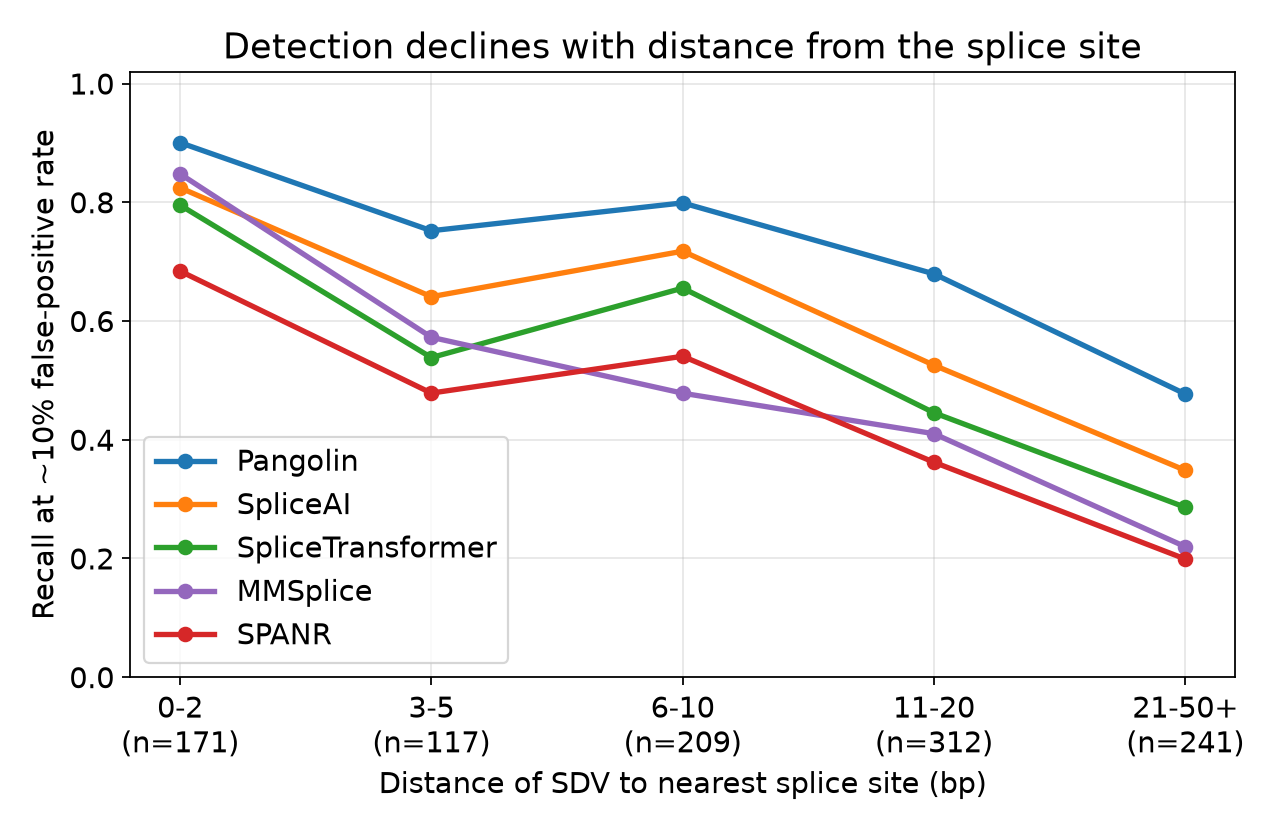
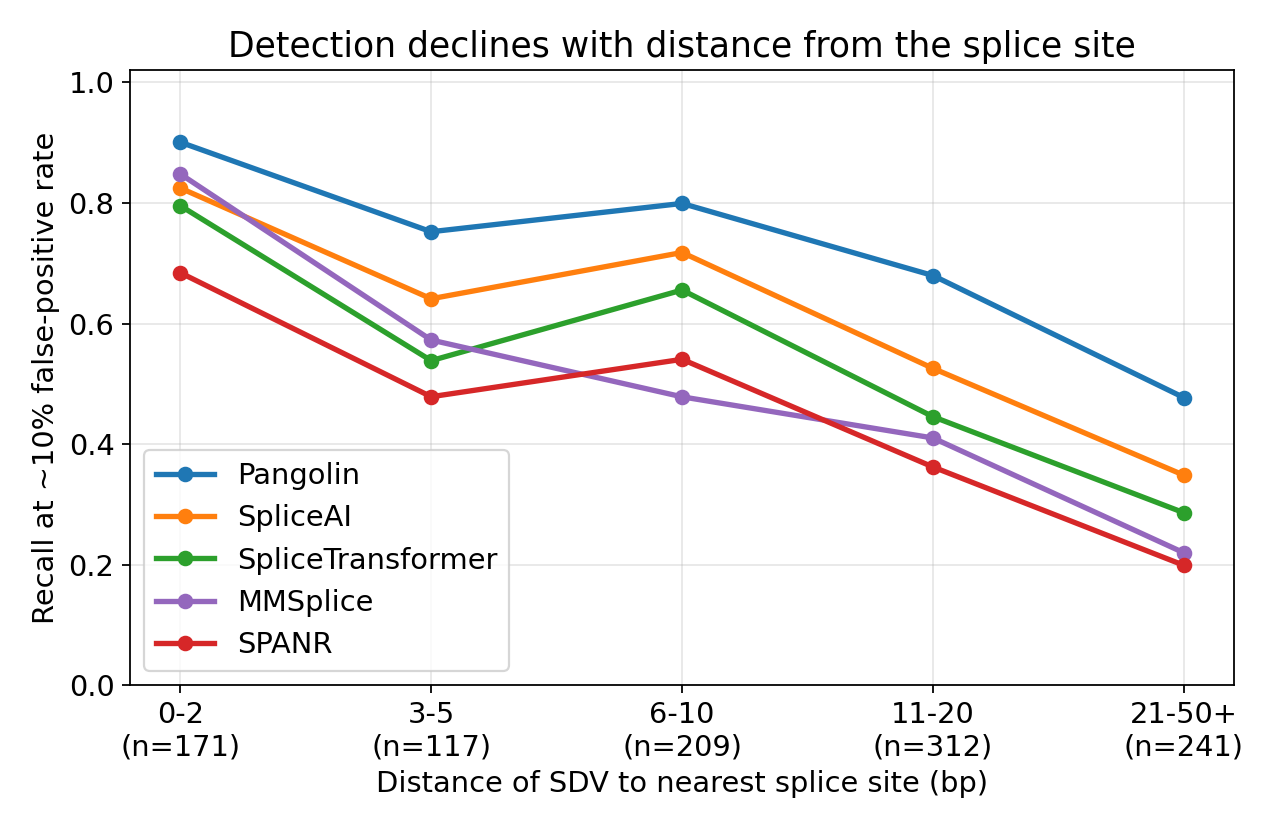
Capitalize figure legend names; regenerate figures and recompile manuscript

diff --git a/docs/SpliceConsensus_Report.tex b/docs/SpliceConsensus_Report.tex
@@ -44,6 +44,9 @@ number is computed against fixed experimental ground truth and is reproducible
 from the public dataset and the released code.
 \end{abstract}
 
+\vspace{4pt}
+\noindent\textbf{Keywords:} RNA splicing; splice-disrupting variants; variant effect prediction; MFASS; multiplexed reporter assay; benchmarking; SpliceAI; Pangolin
+
 \section{Introduction}
 RNA splicing is disrupted in a large share of disease-causing variants, and
 splice-altering variants are among the hardest to interpret in clinical genetics,
@@ -59,7 +62,7 @@ earlier SPANR model \cite{spanr}, are usually
 evaluated in their own publications on heterogeneous datasets and metrics, which
 makes it hard to compare them on equal footing or to know where each is reliable.
 Multiplexed experimental assays of splicing provide a fixed ground truth for such
-comparisons \cite{rosenberg}: MFASS \cite{mfass} measured the splicing effect of tens of thousands of human
+comparisons \cite{rosenberg}: MFASS (the Multiplexed Functional Assay of Splicing by Sort-seq) \cite{mfass} measured the splicing effect of tens of thousands of human
 single-nucleotide variants in exons and their flanking intronic regions in a minigene
 reporter and labels those that strongly reduce exon inclusion as splice-disrupting
 variants.
@@ -74,12 +77,17 @@ baseline, on
 the MFASS single-nucleotide variants, scored through a single interface, with
 bootstrap confidence intervals and an exon-grouped held-out consensus. Beyond
 the aggregate ranking, we ask where the predictions fail: we stratify detection by
-distance to the splice site and identify the variants that every tool misses. The
-contribution is the reproducible benchmark and a characterization of a shared
-exon-interior blind spot.
+distance to the splice site and identify the variants that every tool misses. Relative
+to prior MFASS-based comparisons \cite{smithkitzman,caddsplice}, the contribution here
+is twofold: a single-interface head-to-head that adds Pangolin, SpliceTransformer, and
+MMSplice with bootstrap confidence intervals and an exon-grouped held-out consensus, and
+a characterization of the shared exon-interior blind spot through the set of variants
+that every tool misses. We do not benchmark CADD-Splice itself, because it is a
+meta-score built on top of the sequence predictors evaluated here, so it would not be a
+like-for-like comparison.
 
 \section{Data and ground truth}
-MFASS (the Multiplexed Functional Assay of Splicing by Sort-seq) measured the
+MFASS measured the
 splicing effect of human single-nucleotide variants placed in exons and their
 flanking intronic regions in a minigene reporter \cite{mfass}. Each variant carries
 a measured change in exon inclusion (the $\Delta$ inclusion index), and variants
@@ -143,7 +151,10 @@ SPANR (legacy)     & 27{,}663 & 0.748 & 0.228 & [0.202, 0.260] \\
 \end{center}
 
 Confidence intervals are 1{,}000-sample bootstraps of the average precision. SPANR
-covers slightly fewer variants because its precomputed table omits a small number.
+covers slightly fewer variants because its precomputed table omits 70 of the
+evaluated variants, of which only 2 are SDVs, so the reduced coverage does not affect its ranking. The same
+ordering holds under both the ROC view (Figure~1) and the precision-recall view
+(Figure~2), which is the more informative of the two at this 3.79\% positive base rate.
 
 \begin{figure}[h]
 \centering
@@ -155,16 +166,20 @@ ROC performance; all modern tools exceed the legacy SPANR baseline.}
 \begin{figure}[h]
 \centering
 \includegraphics[width=0.70\textwidth]{../results/fig_pr.png}
-\caption{Precision-recall for the same task (dashed line is the 0.038 positive
+\caption{Precision-recall for the same task (dashed line is the 3.79\% positive
 base rate). The ranking is consistent with the ROC view.}
 \end{figure}
 
 \textbf{Finding 1: Pangolin is the strongest predictor}, by a clear margin on both
 AUROC and average precision, and its AP confidence interval does not overlap those
-of the other tools. \textbf{Finding 2: all four modern predictors beat the legacy
+of the other tools.
+
+\noindent\textbf{Finding 2: all four modern predictors beat the legacy
 SPANR model}, though MMSplice, used here tissue-agnostically on a single-cassette
 minigene context rather than a variant's native multi-exon transcript, ranks fourth
-and sits just above the SPANR baseline. \textbf{Finding 3: the ranking reproduces the relative ordering the
+and sits just above the SPANR baseline.
+
+\noindent\textbf{Finding 3: the ranking reproduces the relative ordering the
 Pangolin authors reported}, which is a correctness check on the scoring pipeline.
 
 \textbf{Finding 4 (output granularity): in these outputs SpliceAI's scores are more
@@ -179,8 +194,11 @@ resolution may contribute to Pangolin's stronger ranking here.
 \textbf{Finding 5 (consensus): combining does not help.} A logistic-regression
 consensus of the three deep-learning sequence-window predictors, trained and evaluated on an
 \emph{exon-grouped} 50/50 split (no exon appears in both train and test), reaches
-held-out AP 0.443 versus Pangolin's 0.442 on the same split, a difference far
-inside the bootstrap interval, and a slightly lower AUROC (0.890 versus 0.893). A
+held-out AP 0.443 versus Pangolin's 0.442 on the same split (both higher than the
+full-set 0.421 because this is the held-out half of the exon-grouped split). The
+difference of $+0.0014$ AP has a paired bootstrap 95\% confidence interval of
+$[-0.011, +0.012]$ that straddles zero, with 41\% of resamples favoring Pangolin,
+and the consensus AUROC is slightly lower (0.890 versus 0.893). A
 rank-average consensus is worse (AP 0.372). The fitted model essentially relies on
 Pangolin alone (standardized coefficient 2.0, versus near zero or negative for the
 others). For this MFASS benchmark, Pangolin is the strongest single predictor.
@@ -221,10 +239,11 @@ stricter 5\% and 8\% at a more permissive 20\% false-positive rate; the effect i
 qualitatively the same at every threshold). These shared misses sit
 predominantly away from the splice site: 77\% lie more than 10\,bp from a splice
 site, and 149 of 200 (74\%) are exonic. They are not weak-effect variants sitting
-near the labeling cutoff: their median inclusion change is $-0.78$ (82\% below
-$-0.70$, only 4\% within 0.1 of the $-0.50$ threshold), close to the $-0.87$ median
-of the disrupting variants the tools do detect, so the shared miss reflects a true
-blind spot rather than borderline labels. They are consistent with exon-interior
+near the labeling cutoff: 82\% have an inclusion change below $-0.70$, and only 4\%
+sit within 0.1 of the $-0.50$ threshold. Their median change ($-0.78$) is modestly
+weaker than that of the detected disrupting variants ($-0.87$), but the shared miss
+is a true blind spot on strong-effect variants rather than an artifact of borderline
+labels. They are consistent with exon-interior
 regulatory disruptions, including possible exonic splicing enhancer or silencer
 effects \cite{cartegni}, the class of variant
 MFASS was designed to expose. That MMSplice, which is explicitly built to model modular
@@ -235,7 +254,7 @@ strongest for splice-site-proximal variants but require caution for exon-interio
 variants, where roughly one in five disrupting variants is invisible to all current
 predictors.
 
-\section{What this shows, and what it does not}
+\section{Scope and limitations}
 It shows that, against a multiplexed experimental splicing assay, Pangolin detects
 splice-disrupting variants better than SpliceAI, SpliceTransformer, MMSplice, and SPANR, that
 all four modern tools beat the legacy baseline, and that a simple consensus does not

diff --git a/src/analyze.py b/src/analyze.py
@@ -9,6 +9,10 @@ from sklearn.model_selection import train_test_split
 from scipy.stats import spearmanr
 import matplotlib; matplotlib.use("Agg"); import matplotlib.pyplot as plt
 
+NAMES = {"pangolin":"Pangolin", "spliceai":"SpliceAI",
+         "splicetx":"SpliceTransformer", "mmsplice":"MMSplice",
+         "spanr":"SPANR"}
+
 ROOT = os.environ.get("SPLICE_ROOT", os.path.dirname(os.path.dirname(os.path.abspath(__file__))))
 RES = f"{ROOT}/results"; MF = f"{ROOT}/data/mfass"
 rng = np.random.default_rng(0)
@@ -120,11 +124,11 @@ def main():
     # ---- figures ----
     plt.figure(figsize=(6,5))
     for t in rt["method"]:
-        m = b.dropna(subset=[t]); fpr,tpr,_ = roc_curve(m["sdv"], m[t]); plt.plot(fpr,tpr,label=f"{t} (AUROC {roc_auc_score(m['sdv'],m[t]):.3f})")
+        m = b.dropna(subset=[t]); fpr,tpr,_ = roc_curve(m["sdv"], m[t]); plt.plot(fpr,tpr,label=f"{NAMES.get(t,t)} (AUROC {roc_auc_score(m['sdv'],m[t]):.3f})")
     plt.plot([0,1],[0,1],"k--",lw=.7); plt.xlabel("FPR"); plt.ylabel("TPR"); plt.legend(fontsize=8); plt.title("MFASS SDV detection: ROC"); plt.tight_layout(); plt.savefig(f"{RES}/fig_roc.png",dpi=150)
     plt.figure(figsize=(6,5))
     for t in rt["method"]:
-        m = b.dropna(subset=[t]); pr,rc,_ = precision_recall_curve(m["sdv"], m[t]); plt.plot(rc,pr,label=f"{t} (AP {average_precision_score(m['sdv'],m[t]):.3f})")
+        m = b.dropna(subset=[t]); pr,rc,_ = precision_recall_curve(m["sdv"], m[t]); plt.plot(rc,pr,label=f"{NAMES.get(t,t)} (AP {average_precision_score(m['sdv'],m[t]):.3f})")
     plt.axhline(b["sdv"].mean(),color="k",ls="--",lw=.7,label=f"baseline {b['sdv'].mean():.3f}"); plt.xlabel("Recall"); plt.ylabel("Precision"); plt.legend(fontsize=8); plt.title("MFASS SDV detection: PR"); plt.tight_layout(); plt.savefig(f"{RES}/fig_pr.png",dpi=150)
 
     rt.to_csv(f"{RES}/benchmark_table.csv", index=False)